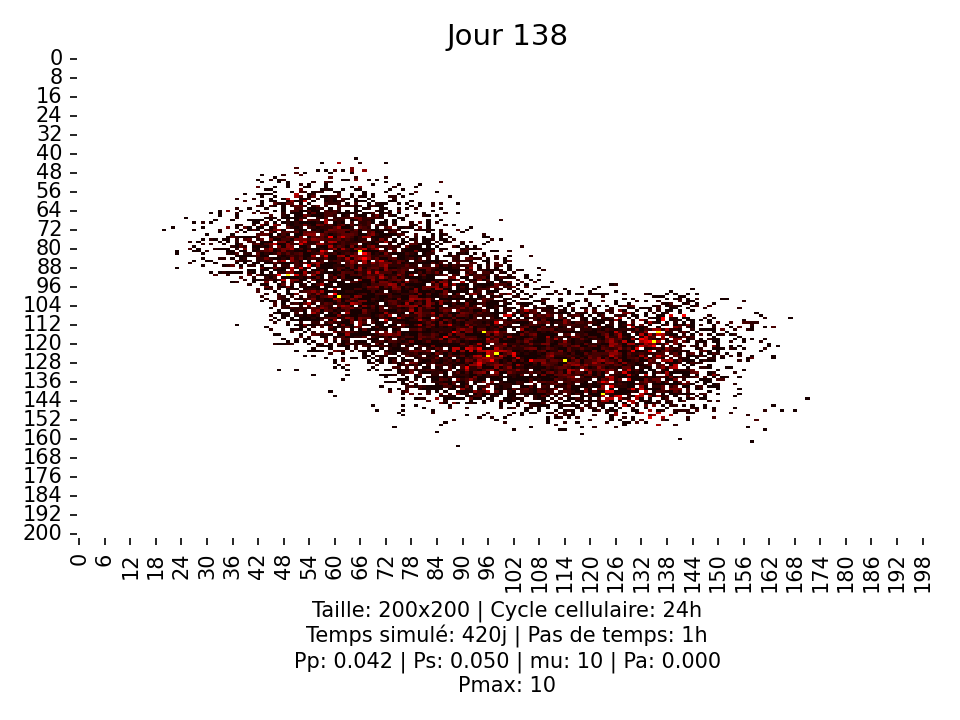
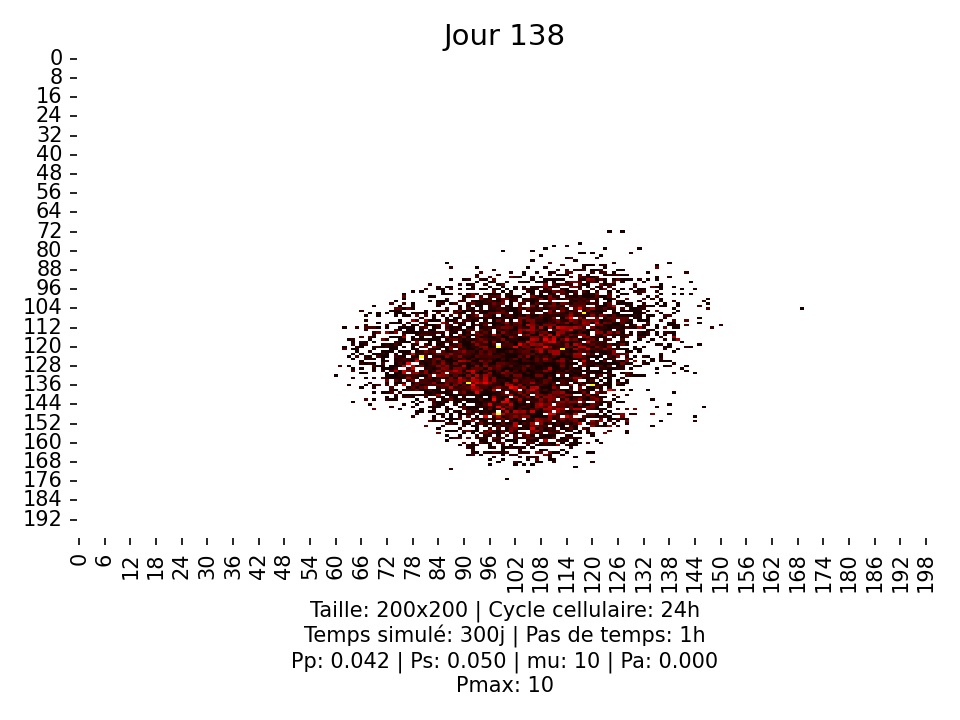
moved scripts + rerun scenario 4

diff --git a/scenario_4.py b/scenario_4.py
@@ -9,7 +9,7 @@ if __name__ == "__main__":
     sim_params = {
         'temps_cc': 24,
         'taille': 200,
-        'n_jours': 420,
+        'n_jours': 300,
         'p_stc' : 0.05,
         'mu': 10,
         'pmax': 10,

diff --git a/README.md b/README.md
@@ -8,18 +8,17 @@ Projet de **simulation** de croissance tumorale en **Python**, dans le cadre du 
 
 - `simulation_tumor.py` : module principal contenant les fonctions de simulation de la croissance tumorale et de visualisation des résultats.
 - `simulation_tumor_immune.py` : module étendu pour inclure les interactions avec les cellules immunitaires.
-- `scenario_X.py` : scripts de simulation pour différents scénarios (X = 1, 2, 3). Appellent les fonctions de `simulation_tumor.py` ou `simulation_tumor_immune.py` avec des paramètres spécifiques.
+- `scenario_X.py` : scripts de simulation pour différents scénarios (X = {1, 2, 3, 4, 5, P1, P2}). Appellent les fonctions de `simulation_tumor.py` ou `simulation_tumor_immune.py` avec des paramètres spécifiques.
+- `other_scripts` : dossier contenant des scripts auxiliaires (optimisation, tests, etc.).
 - `plots/` : dossier pour sauvegarder les graphiques générés.
 - `img/` : dossier pour sauvegarder les images de la croissance tumorale à différents intervalles.
-- `data/` : dossier pour sauvegarder les données brutes des simulations (si nécessaire).
+- `data/` : dossier pour sauvegarder les données brutes ou les résultats des simulations (si nécessaire).
 
 ## Fonctionnement
 
-Les cellules sont modélisées sur une grille 2D, où chaque cellule peut être de différents types (cellules saines, cellules cancéreuses classiques, cellules cancéreuses "stem-like", etc.). La dynamique de croissance tumorale est simulée en fonction de paramètres tels que la probabilité maximale de division cellulaire (`pmax`), la probabilité d'apoptose, et d'autres facteurs biologiques.
+Les cellules sont modélisées sur une grille 2D, où chaque cellule peut être de différents types (cellules saines, cellules cancéreuses classiques, cellules cancéreuses "stem-like", etc.). La dynamique de croissance tumorale est simulée en fonction de paramètres tels que la probabilité maximale de division cellulaire (`pmax`), la probabilité d'apoptose, et d'autres facteurs biologiques. Le diagramme de flux suivant illustre le processus de simulation (par étape, par cellule):
 
-Le diagramme de flux suivant illustre le processus de simulation :
-
-![Diagramme de flux de la croissance tumorale](img/flow_diagram.png)
+![Diagramme de flux de la croissance tumorale](plots/flow_diagram.png)
 
 ## Scénarios simulés
 - **scenario_1.py** : 
@@ -27,24 +26,24 @@ Le diagramme de flux suivant illustre le processus de simulation :
     - Impact de la probabilité maximale de division cellulaire (`pmax`) sur la dynamique de croissance tumorale. 
     - Suivi de la population tumorale totale en fonction du temps et sauvegarde des images de la croissance tumorale à intervalles réguliers.
 - **scenario_2.py** : 
-    - Croissance tumorale originant d'une cellule cancéreuse "stem-like" non clonogénique (ncSTC). 
+    - Croissance tumorale originant d'une cellule cancéreuse "stem-like" non clonogénique (CSC). 
     - Impact de la probabilité maximale de division cellulaire (`pmax`) sur la dynamique de croissance tumorale. 
     - Suivi de la population tumorale totale en fonction du temps et sauvegarde des images de la croissance tumorale à intervalles réguliers.
 - **scenario_3.py** : 
-    - Croissance tumorale originant d'une cellule cancéreuse réellement "stem-like" (tSTC). 
+    - Croissance tumorale originant d'une cellule cancéreuse réellement "stem-like" (STC). 
     - Impact de la probabilité maximale de division cellulaire (`pmax`) sur la dynamique de croissance tumorale. 
-    - Suivi de la population tumorale RTC et tSTC + ncRTC en fonction du temps et sauvegarde des images de la croissance tumorale à intervalles réguliers.
+    - Suivi de la population tumorale RTC et STC en fonction du temps et sauvegarde des images de la croissance tumorale à intervalles réguliers.
 - **scenario_4.py** : 
-    - Croissance tumorale originant d'une cellule cancéreuse réellement "stem-like" (tSTC). 
+    - Croissance tumorale originant d'une cellule cancéreuse réellement "stem-like" (STC). 
     - Impact de la probabilité d'apoptose sur la dynamique de croissance tumorale.
-    - Suivi de la population tumorale RTC et tSTC + ncRTC en fonction du temps et sauvegarde des images de la croissance tumorale à intervalles réguliers.
+    - Suivi de la population tumorale RTC et STC en fonction du temps et sauvegarde des images de la croissance tumorale à intervalles réguliers.
 - **scenario_5.py** : 
-    - Croissance tumorale originant d'une cellule cancéreuse réellement "stem-like" (tSTC). 
-    - Impact de la probabilité de division symétrique des cellules tSTC et du taux de déplacemement des cellules sur la dynamique de croissance tumorale. 
-    - Suivi de la population tumorale RTC et tSTC + ncRTC en fonction du temps et sauvegarde des images de la croissance tumorale à intervalles réguliers.
+    - Croissance tumorale originant d'une cellule cancéreuse réellement "stem-like" (STC). 
+    - Impact de la probabilité de division symétrique des cellules STC et du taux de déplacemement des cellules sur la dynamique de croissance tumorale. 
+    - Suivi de la population tumorale RTC et STC en fonction du temps et sauvegarde des images de la croissance tumorale à intervalles réguliers.
 - **scenario_P1.py** : 
     - Croissance tumorale en présence de cellules immunitaires.
-    - Impact du nombre initial de cellules immunitaires sur la dynamique de croissance tumorale. 
+    - Impact du nombre initial de cellules immunitaires (`n_cells_i`) sur la dynamique de croissance tumorale. 
     - Suivi de la population tumorale totale et des cellules immunitaires en fonction du temps, avec sauvegarde des images de la croissance tumorale à intervalles réguliers.
 - **scenario_P2.py** : 
     - Croissance tumorale en présence de cellules immunitaires.
